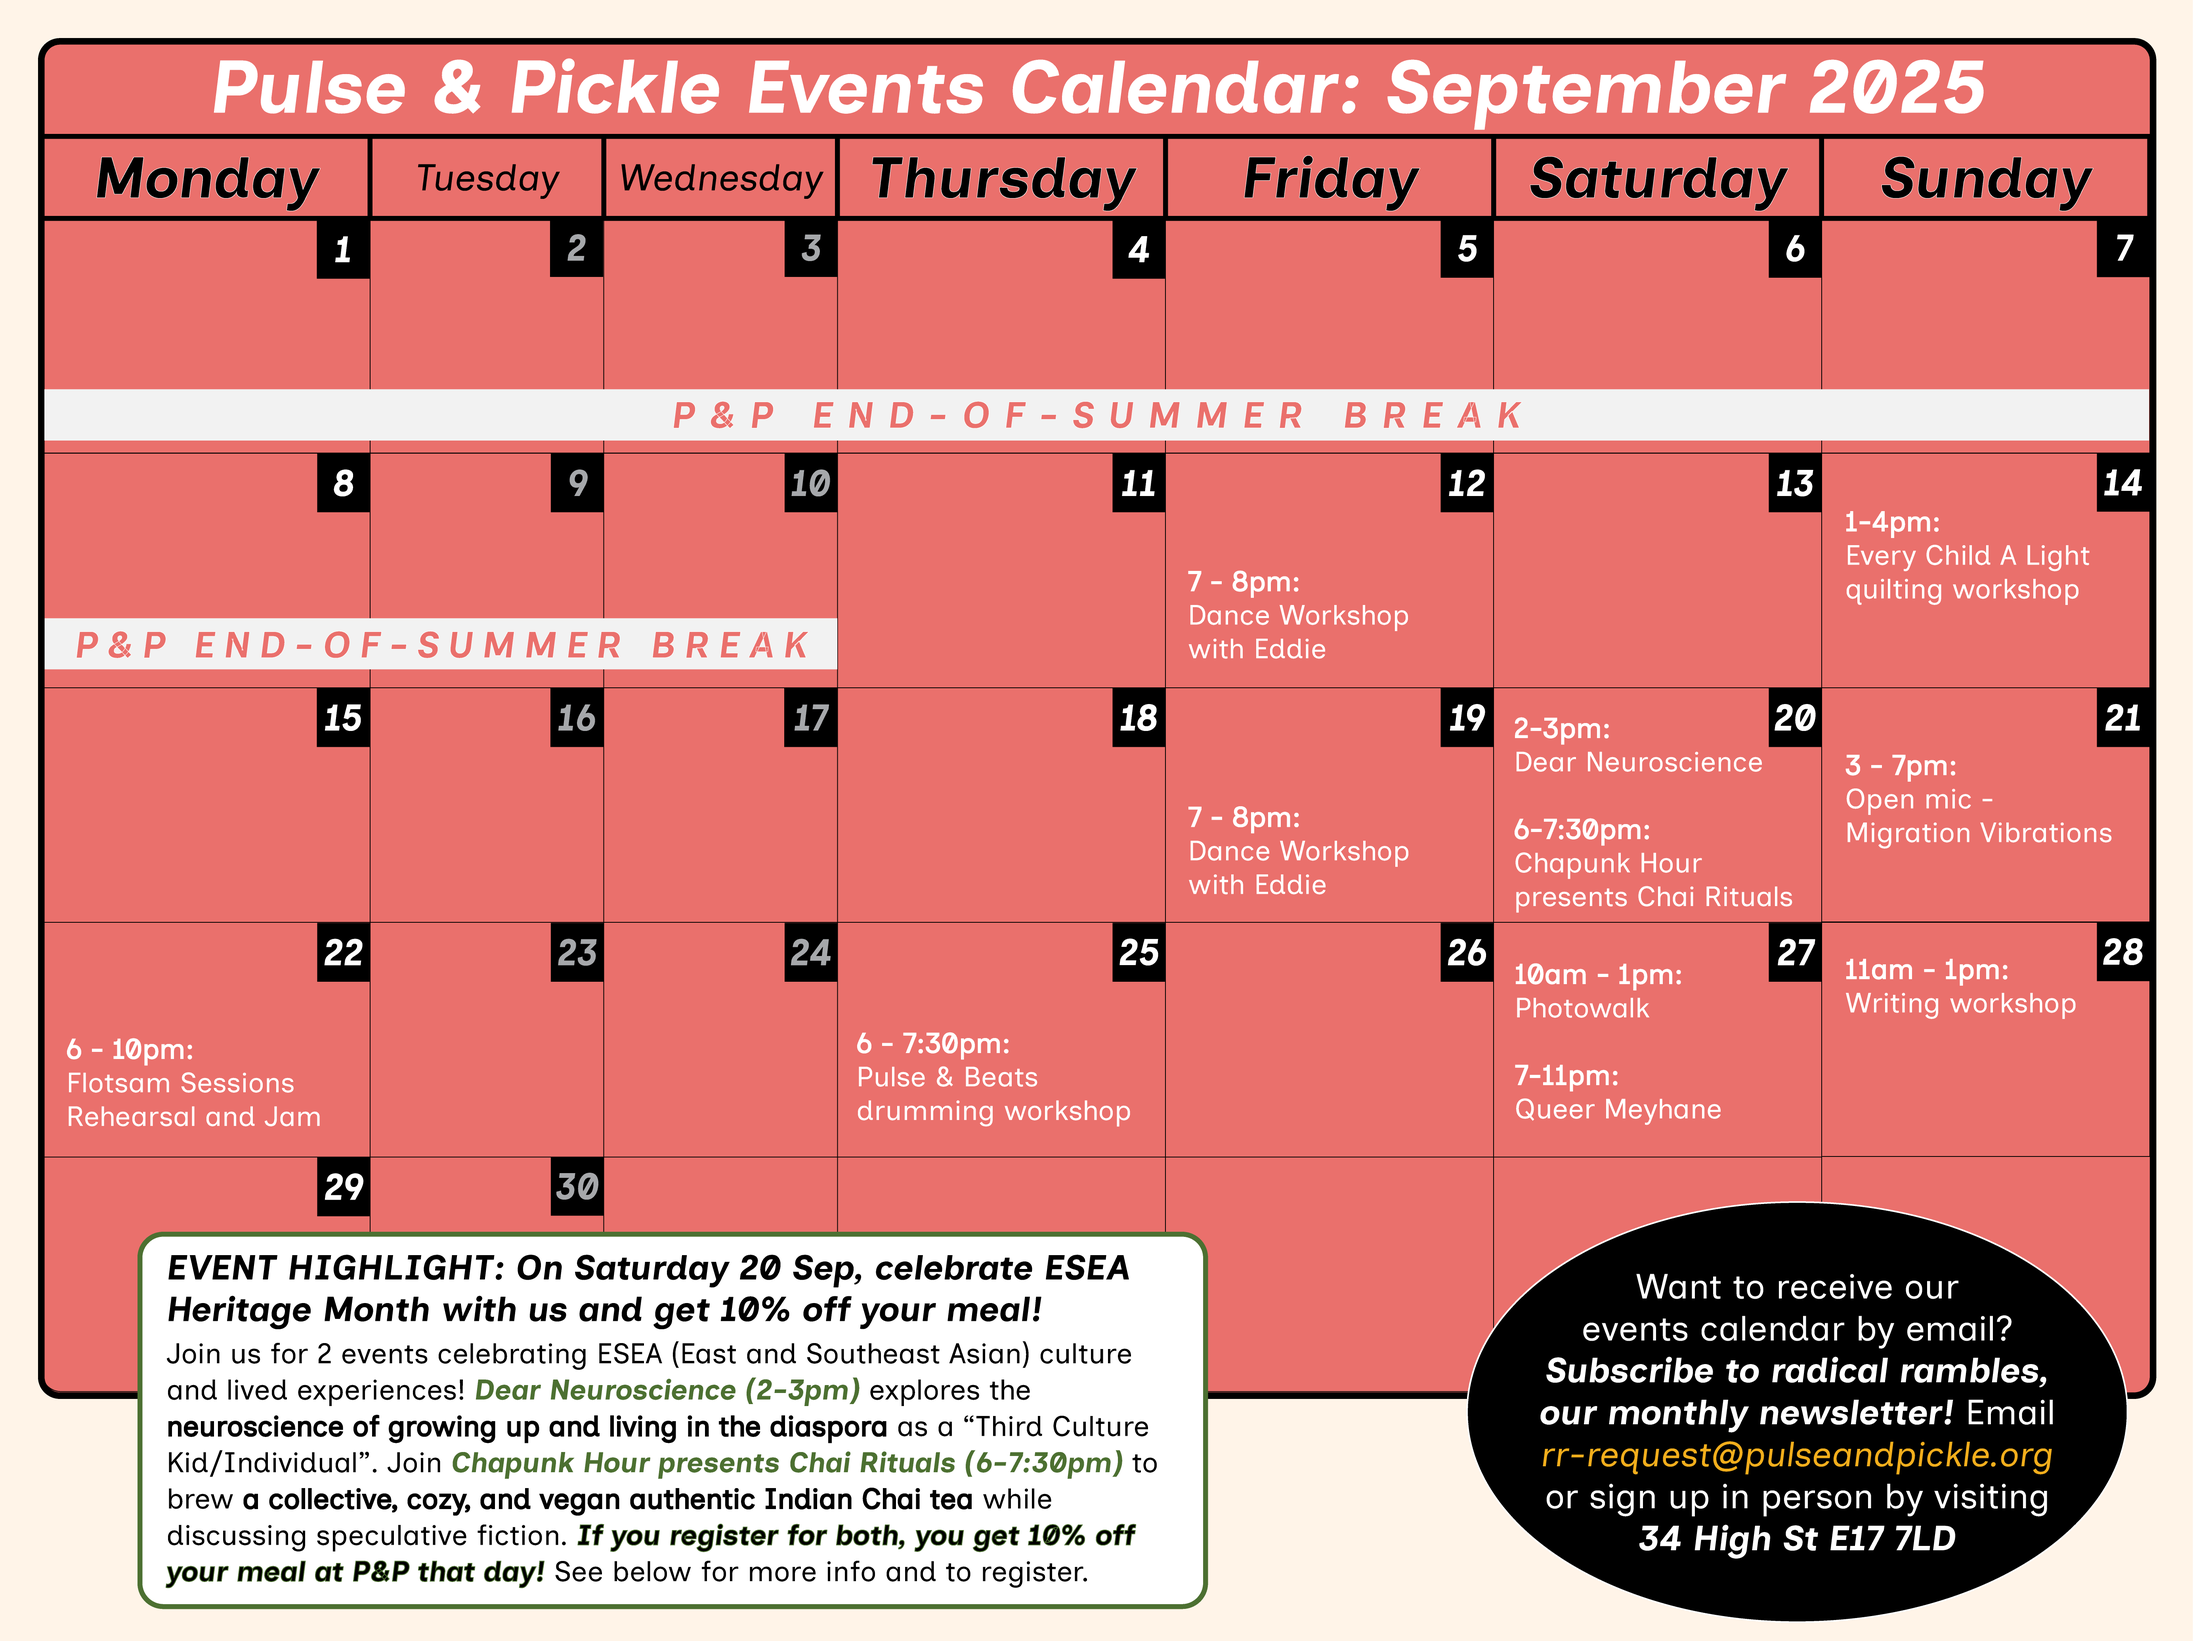
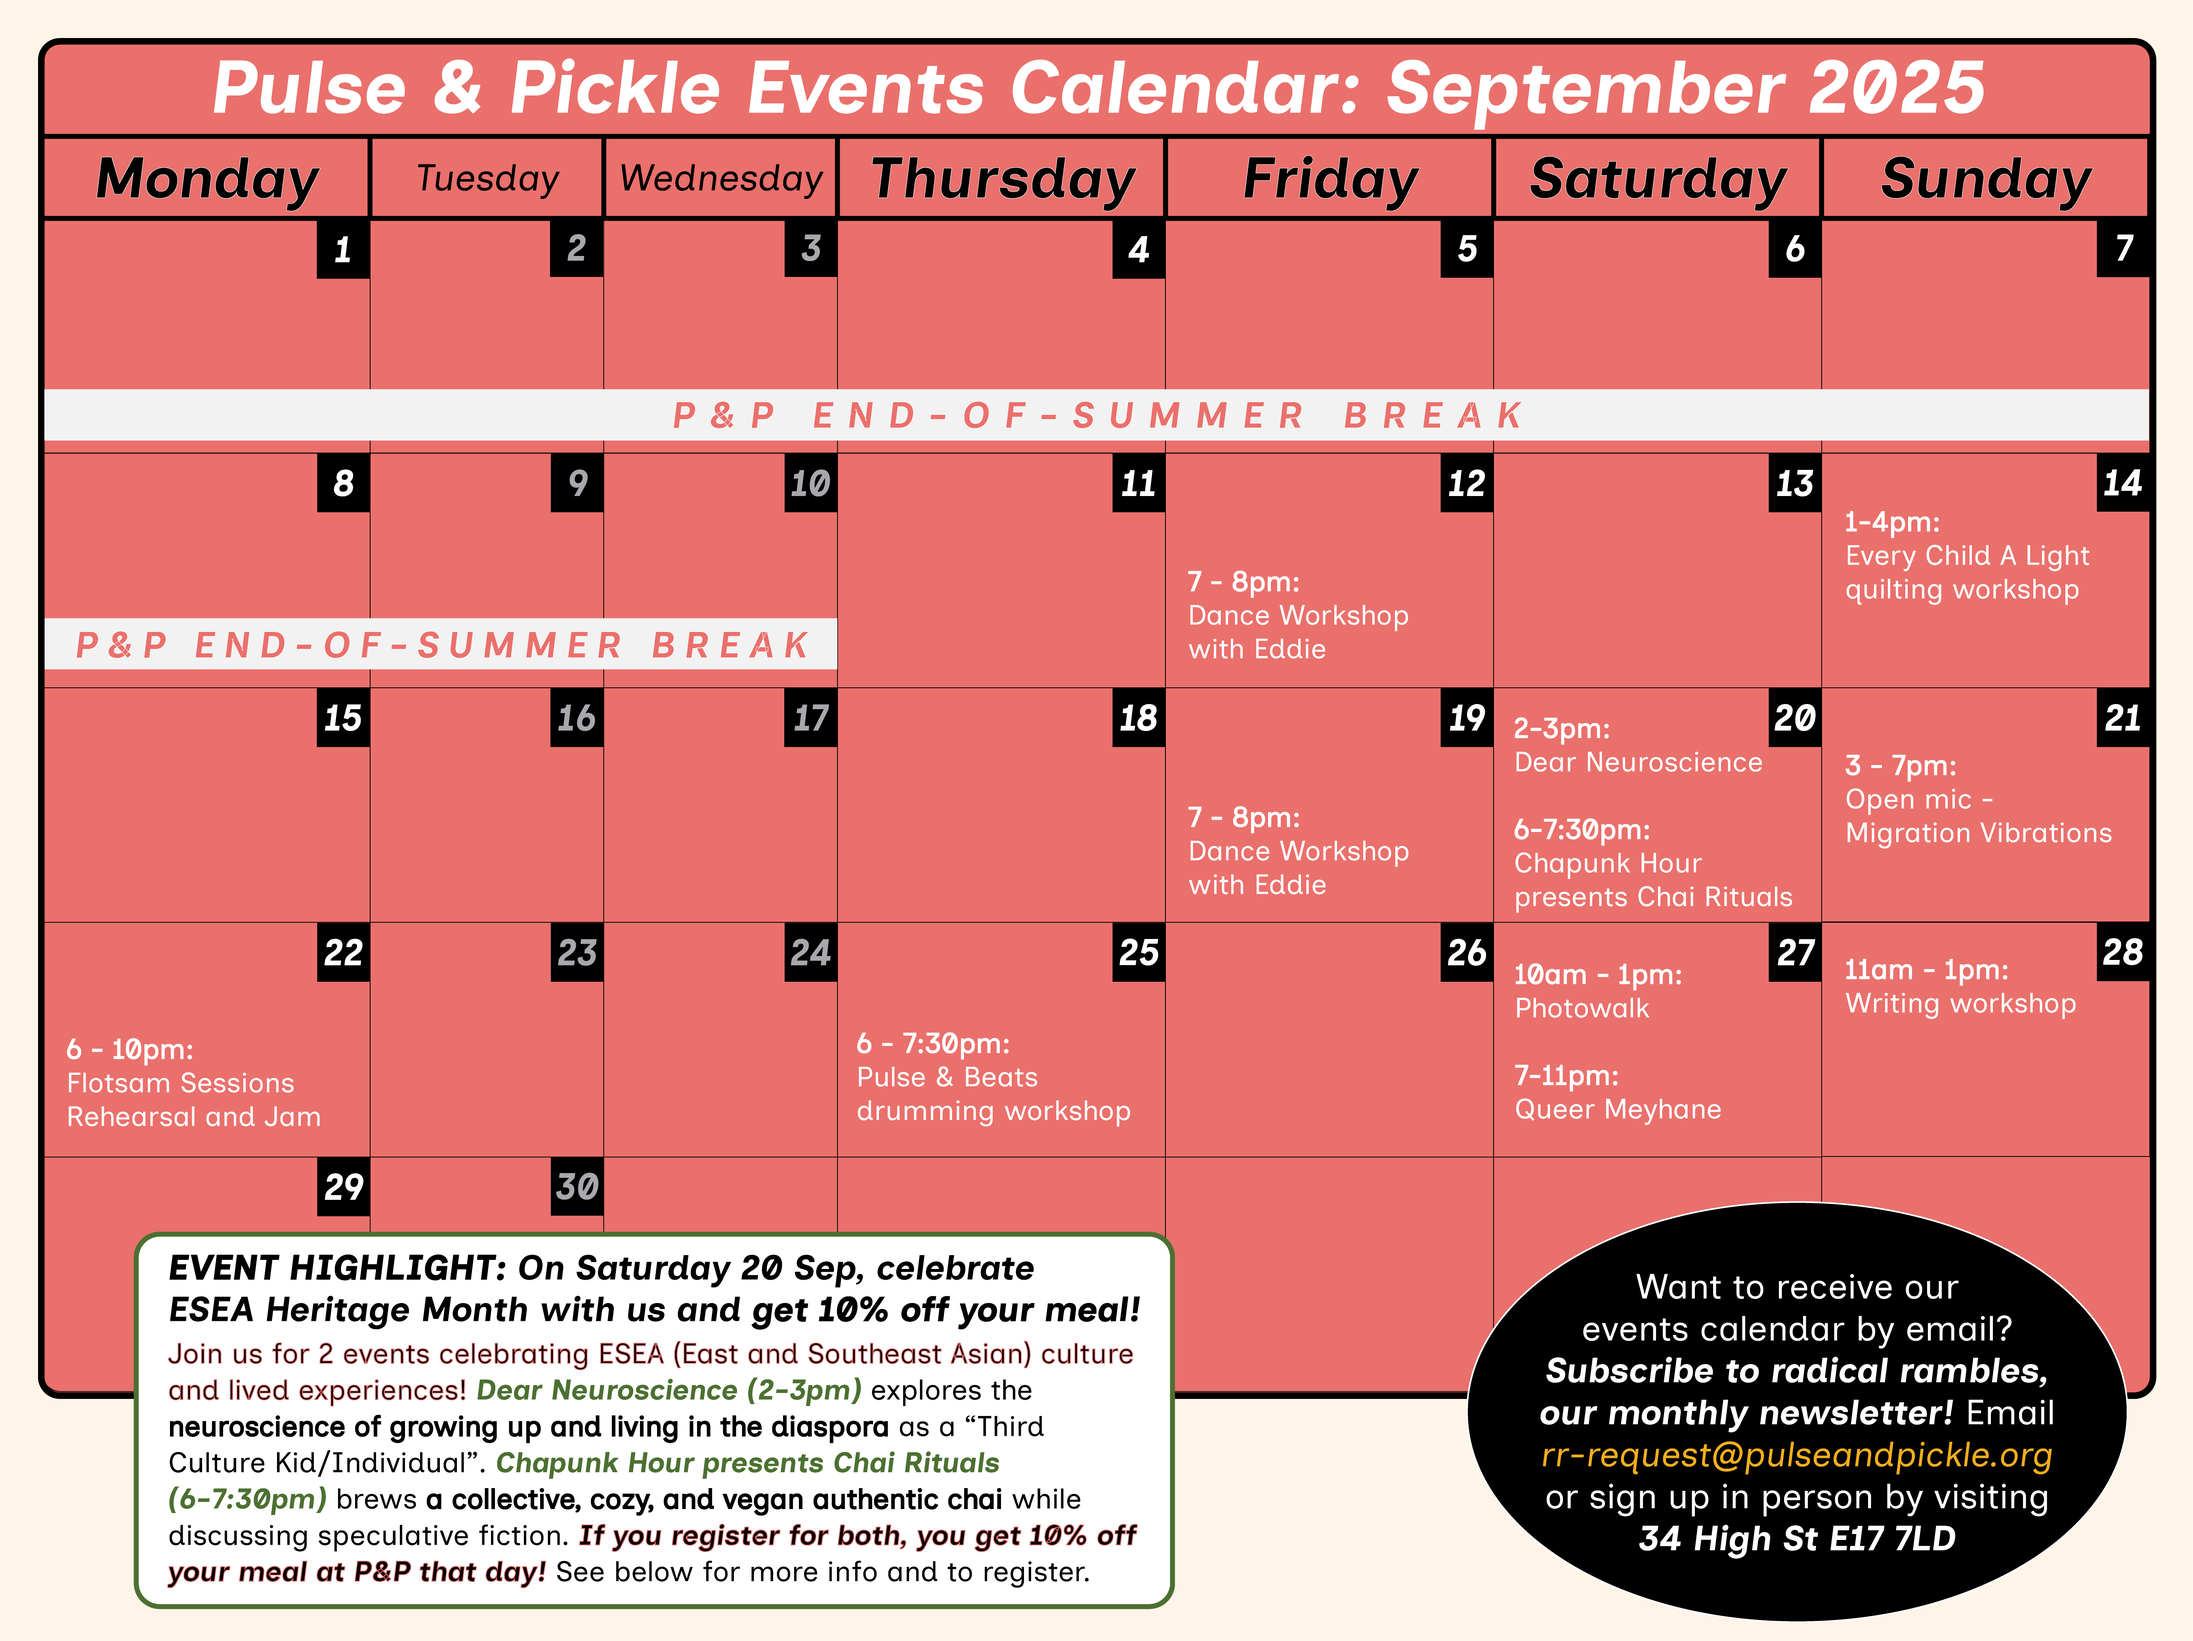
added chapunk hour september event

Changed region(s): [[0.0622, 0.7475, 0.5595, 0.9966]]

diff --git a/events.html b/events.html
@@ -81,12 +81,16 @@
 	    </div>
 	  </div>
 	  <div class="row">
+	    <p id="Dance-with-Eddie-Sep2025" class="values_text" style="max-width: 450px; text-align: right"></br></br></br><span class="inclusive-sans-bold">Friday, 12 and 19 September 2025</span></br>Dance with Eddie<span class="inclusive-sans-medium"></br>7pm to 8pm</span></br></br><span class="inclusive-sans-medium">Register here: <a href="https://events.humanitix.com/dance-with-eddie-sept">https://events.humanitix.com/dance-with-eddie-sept</a></span></p>
 	    <div class="about_img" style="max-width: 500px"><img src="images/events/202509_DanceWithEddie.jpeg"></div>
-	    <p id="Dance-with-Eddie-Sep2025" class="values_text" style="max-width: 450px; text-align: left"></br></br></br><span class="inclusive-sans-bold">Friday, 12 and 19 September 2025</span></br>Dance with Eddie<span class="inclusive-sans-medium"></br>7pm to 8pm</span></br></br><span class="inclusive-sans-medium">Register here: <a href="https://events.humanitix.com/dance-with-eddie-sept">https://events.humanitix.com/dance-with-eddie-sept</a></span></p>
 	  </div>
 	  <div class="row">
-	    <p id="Dear-Neuro-Sep2025" class="values_text" style="max-width: 450px; text-align: right"></br><span class="inclusive-sans-bold">20 September 2025</span></br>Dear Neuroscience: </br>What happens when "home" </br>is both everywhere and nowhere?</br><span class="inclusive-sans-medium">3pm to 4:30pm</span></br></br><span class="inclusive-sans-medium"><span style="font-size: 18px; line-height: 28px">Join as we explore what we can learn when we look at the lived experiences of "Third Culture Kids/Individuals" through the lens of neuroscience.</span></span></br></br>Resident neuroscientist Dr. Taun will draw and sing an introduction to relevant neuroanatomy topics, and then we’ll have an open conversation and AMA session with guest panelist Annie Yu Wenmiao, entrepreneur and host of <a href="http://www.lowtogrow.com/">Low to Grow Podcast</a>.</br></br><span style="font-size: 22px; line-height: 32px">Register now:</br></span><span class="inclusive-sans-bold"><a href="https://events.humanitix.com/dear-neuroscience-sep-2025">https://events.humanitix.com/dear-neuroscience-sep-2025</a></span></p>
 	    <div class="about_img" style="max-width: 500px"><img src="images/events/20250920_DearNeuroscience_event-flyer.png"></div>
+	    <p id="Dear-Neuro-Sep2025" class="values_text" style="max-width: 450px; text-align: left"></br><span class="inclusive-sans-bold">Saturday, 20 September 2025</span></br>Dear Neuroscience: </br>What happens when "home" </br>is both everywhere and nowhere?</br><span class="inclusive-sans-medium">3pm to 4:30pm</span></br></br><span class="inclusive-sans-medium"><span style="font-size: 18px; line-height: 28px">Join as we explore what we can learn when we look at the lived experiences of "Third Culture Kids/Individuals" through the lens of neuroscience.</span></span></br></br>Resident neuroscientist Dr. Taun will draw and sing an introduction to relevant neuroanatomy topics, and then we’ll have an open conversation and AMA session with guest panelist Annie Yu Wenmiao, entrepreneur and host of <a href="http://www.lowtogrow.com/">Low to Grow Podcast</a>.</br></br><span style="font-size: 22px; line-height: 32px">Register now:</br></span><span class="inclusive-sans-bold"><a href="https://events.humanitix.com/dear-neuroscience-sep-2025">https://events.humanitix.com/dear-neuroscience-sep-2025</a></span></br></br>Celebrate ESEA heritage month with us on 20 September! If you register for both Dear Neuroscience and <span class="inclusive-sans-medium-italic">Chapunk Hour presents Chai Rituals</span>, <span class="inclusive-sans-bold-italic">you can get 10% off any food you buy from us on that day!</span> Just show your registration confirmation for both events at the till.</p>
+	  </div>
+	  <div class="row">
+	    <p id="Chapunk-chai-Sep2025" class="values_text" style="max-width: 450px; text-align: right"></br></br></br><span class="inclusive-sans-bold">Saturday, 20 September 2025</span></br>Chapunk Hour presents Chai Rituals<span class="inclusive-sans-medium"></br>6pm to 7:30pm</span></br></br>What rituals have blossomed around the making and sharing of chai? And how does one make the perfect vegan chai -- creamy, rich, and not too sweet?</br></br><span class="inclusive-sans-medium"><span style="font-size: 18px; line-height: 28px">Join us as we simmer in these delicious speculations while brewing a collective pot of vegan authentic chai. ALL ARE WELCOME!</span></span></br></br></br><span class="inclusive-sans-medium">Register here: <a href="https://events.humanitix.com/chapunk-hour-presents-chai-rituals">https://events.humanitix.com/chapunk-hour-presents-chai-rituals</a></span></br></br>Celebrate ESEA heritage month with us on 20 September! If you register for both <span class="inclusive-sans-medium-italic">Dear Neuroscience</span> and Chapunk Hour presents Chai Rituals, <span class="inclusive-sans-bold-italic">you can get 10% off any food you buy from us on that day!</span> Just show your registration confirmation for both events at the till.</p>
+	    <div class="about_img" style="max-width: 500px"><img src="images/events/20250920_ChapunkHour_chai-rituals.png"></div>
 	  </div>
 	</div>
       </div>

diff --git a/index.html b/index.html
@@ -115,20 +115,20 @@
 	      <div class="events_img"><a href="events.html#Dear-Neuro-Sep2025"><img src="images/events/20250920_DearNeuroscience_event-flyer.png"></a></div>
 	    </div>
 	    <div class="events_column">
-	      <div class="events_img"><a href="events.html#MV_evergreen"><img src="images/events/20250921_MigrationVibrations.png"></a></div>
+	      <div class="events_img"><a href="events.html#Chapunk-chai-Sep2025"><img src="images/events/20250920_ChapunkHour_chai-rituals.png"></a></div>
 	    </div>
 	  </div>
-	  <!-- <div class="row">
+	  <div class="row">
 	    <div class="events_column">
-	      <div class="events_img"><a href="events.html#Techo-Verde"><img src="images/events/20250719_TechoVerde_flyer.png"></a></div>
+	      <div class="events_img"><a href="events.html#MV_evergreen"><img src="images/events/20250921_MigrationVibrations.png"></a></div>
 	    </div>
 	    <div class="events_column">
-	      <div class="events_img"><a href="events.html#MV_evergreen"><img src="images/events/20250720_MigrationVibrations.png"></a></div>
+	      <div class="events_img"><a href="events.html"><img src=""></a></div>
 	    </div>
 	    <div class="events_column">
-	      <div class="events_img"><a href="events.html#Children-of-Gaza"><img src="images/events/20250727_EachChildALight.png"></a></div>
+	      <div class="events_img"><a href="events.html"><img src=""></a></div>
 	    </div>
-	  </div> -->
+	  </div>
 	</div>
       </div>
       <!-- events section end -->
